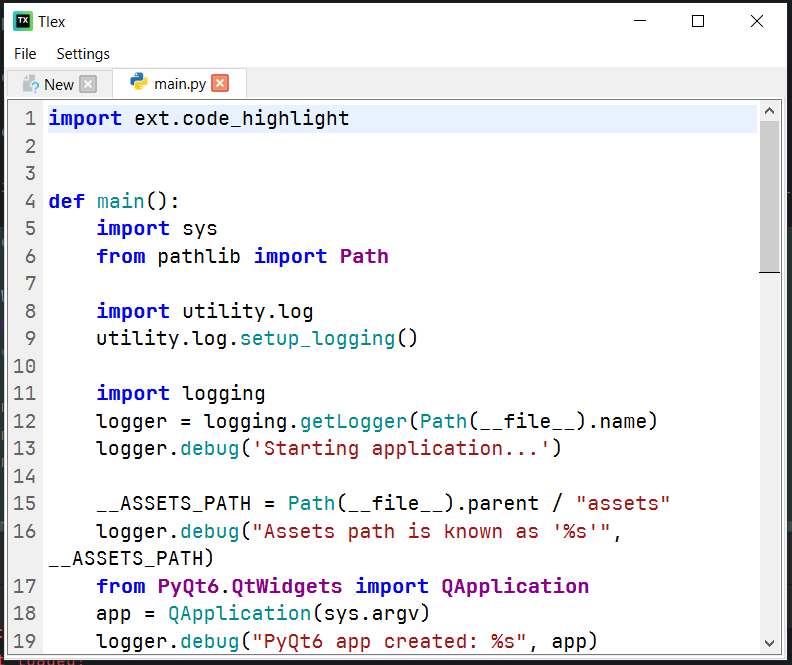
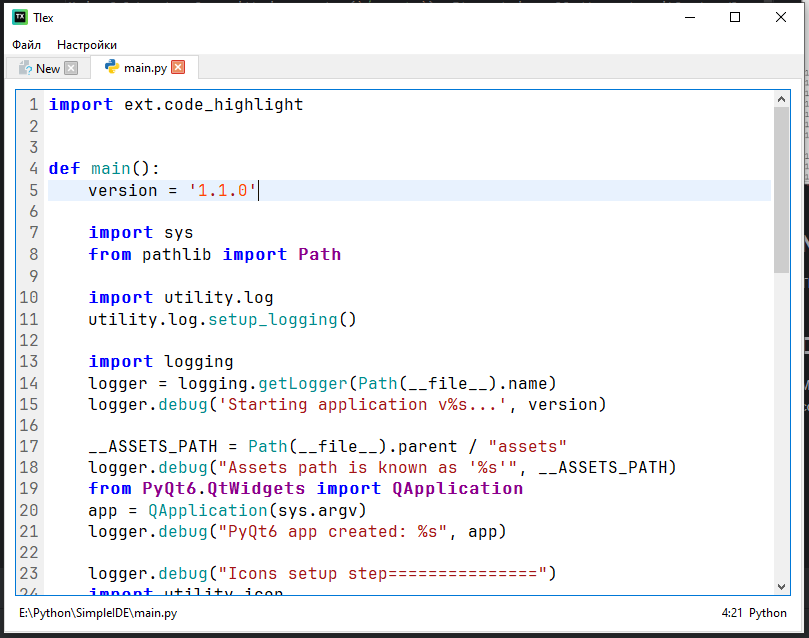
v1.1.0: File info bar

Changed region(s): [[0.0, 0.0, 1.0, 1.0], [0.9394, 0.0, 1.0, 0.9232], [0.8788, 0.0, 0.9091, 0.0298]]

diff --git a/window/main_window.py b/window/main_window.py
@@ -3,7 +3,7 @@ from pathlib import Path
 from PyQt6.QtGui import QAction, QKeySequence, QCloseEvent
 from PyQt6.QtWidgets import QMainWindow, QMenu, QFileDialog, QMessageBox, QTabWidget
 
-from window.components.code_editor import CodeEditor
+from window.components.code_editor import CodeEditor, CodeEditorWrapper, InfoBlock
 from utility.bindng import match_binding_by_path
 from utility.locale import LocaleManager
 from utility.icon import find_icon
@@ -70,7 +70,9 @@ class Notepad(QMainWindow):
         event.accept()
 
     def __on_tab_closed(self, tab_idx: int) -> bool:
-        editor: CodeEditor = self.tabs.widget(tab_idx)
+        editor_wrapper: CodeEditorWrapper = self.tabs.widget(tab_idx)
+        editor: CodeEditor = editor_wrapper.editor
+
         if not editor.is_edited:
             self.tabs.removeTab(tab_idx)
             return True
@@ -97,30 +99,23 @@ class Notepad(QMainWindow):
         menu_settings.addAction(action_change_language)
 
     def __create_new_tab(self, file_path: str | Path, file_data: str | None, focus: bool = True) -> int:
-        editor = CodeEditor()
+        editor_wrapper: CodeEditorWrapper = CodeEditorWrapper(self)
+        editor: CodeEditor = editor_wrapper.editor
+        info: InfoBlock = editor_wrapper.info_block
+
         if file_data:
             editor.setPlainText(file_data)
 
+        tab_idx = self.tabs.addTab(editor_wrapper, str(file_path))
         if isinstance(file_path, Path):
-            binding = match_binding_by_path(file_path)
-            if binding:
-                icon = binding.icon
-
-                if binding.highlighter_type is not None:
-                    highlighter_type = binding.highlighter_type
-                    editor.hl = highlighter_type(editor.document())
-            else:
-                icon = find_icon('unknown')
-
-            tab_idx = self.tabs.addTab(editor, icon, file_path.name)
-            self.tabs.setTabToolTip(tab_idx, str(file_path))
+            self.__update_tab_state(tab_idx, file_path)
         else:
             icon = find_icon('unknown')
-
-            tab_idx = self.tabs.addTab(editor, icon, file_path)
+            self.tabs.setTabIcon(tab_idx, icon)
+            info.hide()
 
         def follow_editor_state(_editor: CodeEditor):
-            tab_idx = self.tabs.indexOf(_editor)
+            tab_idx = self.tabs.indexOf(_editor.parent())
             tab_name = self.tabs.tabText(tab_idx)
 
             if _editor.is_edited and not tab_name.endswith('*'):
@@ -164,7 +159,8 @@ class Notepad(QMainWindow):
             return
         stored_path = Path(stored_path_str)
 
-        editor: CodeEditor = self.tabs.widget(tab_idx)
+        editor_wrapper: CodeEditorWrapper = self.tabs.widget(tab_idx)
+        editor: CodeEditor = editor_wrapper.editor
         if not editor.is_edited:
             return
 
@@ -184,12 +180,29 @@ class Notepad(QMainWindow):
         return True
 
     def __update_tab_state(self, tab_idx: int, file_path: Path):
+        editor_wrapper: CodeEditorWrapper = self.tabs.widget(tab_idx)
+        info: InfoBlock = editor_wrapper.info_block
+
+        info.update_file_path_label(str(file_path))
+        binding = match_binding_by_path(file_path)
+
+        if binding:
+            icon = binding.icon
+            info.update_binding(binding)
+            info.show()
+        else:
+            icon = find_icon('unknown')
+            info.update_binding(None)
+            info.hide()
+
+        self.tabs.setTabIcon(tab_idx, icon)
         self.tabs.setTabText(tab_idx, file_path.name)
         self.tabs.setTabToolTip(tab_idx, str(file_path))
 
     def __save_file(self, filename: str | Path, tab_idx: int):
         try:
-            editor: CodeEditor = self.tabs.widget(tab_idx)
+            editor_wrapper: CodeEditorWrapper = self.tabs.widget(tab_idx)
+            editor: CodeEditor = editor_wrapper.editor
             file_data = editor.toPlainText()
 
             with open(filename, 'w') as f:

diff --git a/window/components/code_editor.py b/window/components/code_editor.py
@@ -1,14 +1,40 @@
 from PyQt6.QtCore import QRect, Qt, pyqtSignal, QObject
-from PyQt6.QtGui import QFont, QTextBlock, QPainter, QFontMetrics, QColor, QTextFormat, QTextCursor, QKeyEvent
-from PyQt6.QtWidgets import QPlainTextEdit, QWidget, QTextEdit
+from PyQt6.QtGui import QFont, QTextBlock, QPainter, QFontMetrics, QColor, QTextFormat, QKeyEvent, QTextCursor, \
+    QSyntaxHighlighter
+from PyQt6.QtWidgets import QPlainTextEdit, QWidget, QTextEdit, QLabel, QHBoxLayout, QVBoxLayout
+
+from utility.bindng import Binding
+from utility.locale import LocaleManager
+
+locm = LocaleManager.get_instance
+
+
+def qlabel_tooltip_setter(o, txt):
+    o.setToolTip(txt)
+
+
+class CodeEditorWrapper(QWidget):
+    def __init__(self, parent=None):
+        super().__init__(parent)
+        vbox = QVBoxLayout()
+
+        self.editor = CodeEditor(self)
+        vbox.addWidget(self.editor)
+
+        self.info_block = InfoBlock(self, self.editor)
+        vbox.addWidget(self.info_block)
+
+        self.setLayout(vbox)
+
 
 class CodeEditor(QPlainTextEdit):
     code_changed = pyqtSignal(QObject)
 
-    def __init__(self):
-        super().__init__()
+    def __init__(self, parent=None):
+        super().__init__(parent)
         self.setFont(QFont("JetBrains Mono", 12))
         self.line_number_area = LineNumberArea(self)
+
         self.highlight_color = QColor(232, 242, 254) # Light blue
         self.tab_width = 4
         self.is_edited = False
@@ -135,3 +161,50 @@ class LineNumberArea(QWidget):
             top = bottom
             bottom = top + ce.blockBoundingRect(block).height()
             block_number += 1
+
+
+class InfoBlock(QWidget):
+    def __init__(self, parent, editor: CodeEditor):
+        super().__init__(parent)
+        self.editor = editor
+        layout = QHBoxLayout()
+        layout.setContentsMargins(4, 2, 4, 0)
+        layout.setSpacing(6)
+
+        self.highlighter = None
+
+        self.file_path_label = locm().bind(QLabel(self), 'notepad.info.path', qlabel_tooltip_setter)
+
+        self.position_label = locm().bind(QLabel(self), 'notepad.info.cursor_position', qlabel_tooltip_setter)
+        self.editor.cursorPositionChanged.connect(self.__update_position)
+
+        self.binding_label = locm().bind(QLabel(self), 'notepad.info.file_type', qlabel_tooltip_setter)
+
+        layout.addWidget(self.file_path_label)
+        layout.addStretch()
+        layout.addWidget(self.position_label)
+        layout.addWidget(self.binding_label)
+
+        self.setLayout(layout)
+        self.setFixedHeight(self.sizeHint().height())
+
+    def update_file_path_label(self, txt: str):
+        self.file_path_label.setText(txt)
+
+    def __update_position(self):
+        cursor: QTextCursor = self.editor.textCursor()
+        line = cursor.blockNumber()
+        cursor_pos = cursor.positionInBlock()
+        self.position_label.setText(f'{line}:{cursor_pos}')
+
+    def update_binding(self, binding: Binding):
+        if binding:
+            self.binding_label.setText(binding.name)
+            editor = self.editor
+
+            if binding.highlighter_type is not None:
+                highlighter_type = binding.highlighter_type
+                self.highlighter = highlighter_type(editor.document())
+        else:
+            self.highlighter = None
+            self.editor.setPlainText(self.editor.toPlainText())

diff --git a/utility/bindng.py b/utility/bindng.py
@@ -16,6 +16,7 @@ FILTER_BY_EXT = ['.toml']
 # Private params
 @dataclass
 class Binding:
+    name: str
     suffixes: list[str]
     icon: QIcon
     highlighter_type: type | None
@@ -25,6 +26,7 @@ _LOADED_BINDINGS: list[Binding] = list()
 # Methods
 def __load_binding(path_binding: Path) -> Binding:
     bind_dict = toml.load(path_binding)
+    name: str = bind_dict['name']
     suffixes: list[str] = bind_dict['suffixes']
     icon_name: str = bind_dict['icon_name']
     highlighter_name: str | None = bind_dict.get('highlighter_name', None)
@@ -37,7 +39,7 @@ def __load_binding(path_binding: Path) -> Binding:
     if highlighter_name is not None:
         highlighter_type = HighlighterRegistry.get_instance().get(highlighter_name)
 
-    binding = Binding(suffixes, icon, highlighter_type)
+    binding = Binding(name, suffixes, icon, highlighter_type)
     _LOADED_BINDINGS.append(binding)
 
     return binding

diff --git a/main.py b/main.py
@@ -2,7 +2,7 @@ import ext.code_highlight
 
 
 def main():
-    version = '1.0.1'
+    version = '1.1.0'
 
     import sys
     from pathlib import Path

diff --git a/README.md b/README.md
@@ -1,6 +1,5 @@
 # Tlex - Simple notepad with PyQt6
 ![image](github/preview.png)
-Version 1.0.1
 
 ## Name meaning
 Tlex is Text plus Flex (Flexible text editor)
